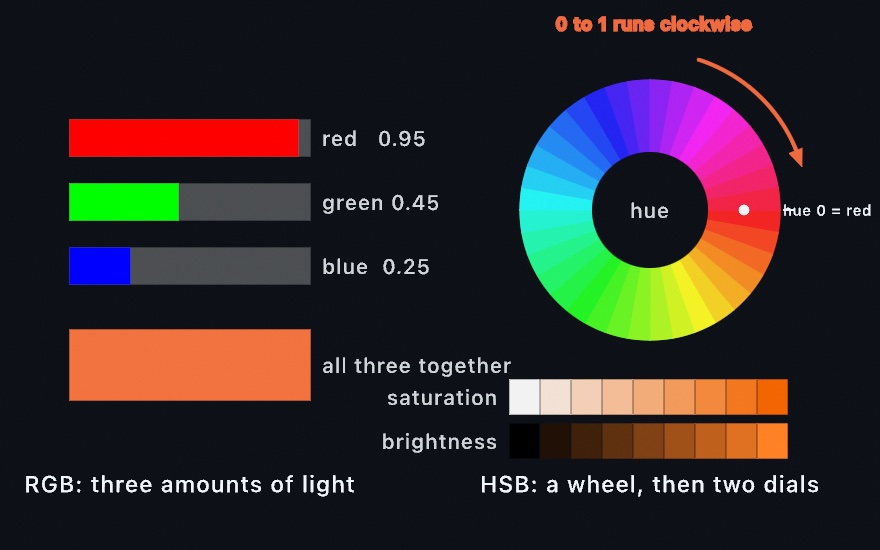
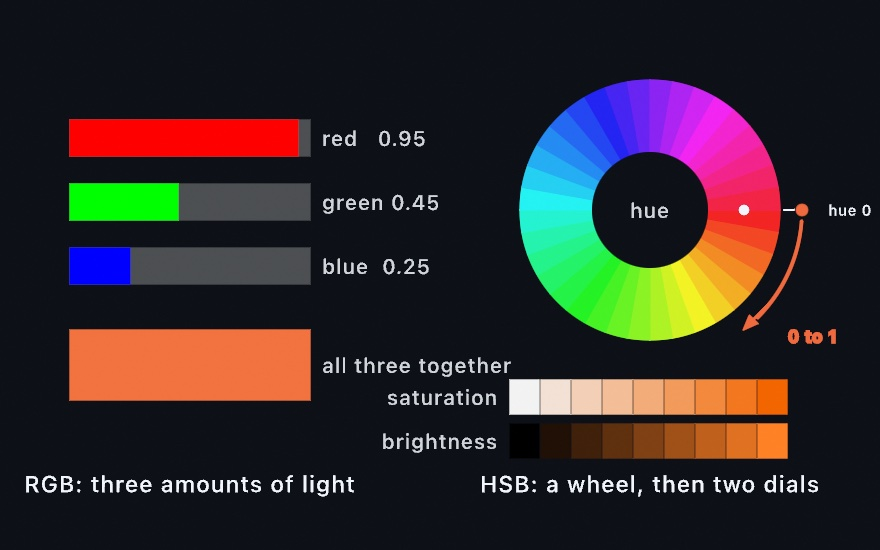
Notes 14 to 16 on chapter 3, plus 18 and 19 which landed in the same files, and a heading I had split in two.
"All free to read inside `draw()`" said nothing: free of what? Three properties come with the clock and you read them the way you read `time`. "Not a constant of the universe" is an idiom where the plain sentence is shorter: you cannot count on the frame rate.

**What a heavy frame does now has its own section, measured rather than described.** A sketch drawing more and more circles, reading its own clock as it goes: at 100,000 circles the rate is 51 and `deltaTime` 0.021, at 160,000 it is 41 and 0.047, and `time` counts real seconds throughout. Reading across that table is the point, because it says which of the three to trust. `frameRate` falls because that is what it measures, `deltaTime` grows because it is the real gap, and `time` is a clock rather than a frame counter. Which is the whole reason for the two habits above it: motion off `time`, or stepped by `deltaTime`, keeps its speed as the rate falls and only gets choppier, while a bare `x += 3` gets both. Two facts finish it: the window drops a refresh rather than queueing work it cannot finish, since a stalled window stops answering the mouse; and an export runs on a fixed clock, so a sketch too heavy to play smoothly still exports at full speed.
[…]

diff --git a/Guide/Figures/02-Color/HueWheels.swift b/Guide/Figures/02-Color/HueWheels.swift
@@ -74,20 +74,22 @@ final class HueWheels: Sketch {
             drawCircle(center: center + Vector2(94, 0), radius: 5)
             textSize(15)
             textAlign(.right, .middle)
-            drawText("hue 0 = red", width - 8, center.y)
+            drawText("hue 0", width - 8, center.y)
 
-            // The sweep from 0 to 1, drawn as the quarter it opens with.
+            // The sweep, starting where 0 is rather than somewhere along the
+            // way, so the reader can see which end the numbers count from.
             noFill()
             stroke(theme.accent)
             strokeWeight(2.5)
-            drawArc(center.x, center.y, 158, 158, start: -.tau * 0.20, stop: -.tau * 0.055)
+            drawArc(center.x, center.y, 152, 152, start: .tau * 0.012, stop: .tau * 0.125)
             fill(theme.accent)
-            let head = center + Vector2(angle: -.tau * 0.045, length: 158)
-            drawArrow(from: center + Vector2(angle: -.tau * 0.075, length: 158),
-                      to: head, headLength: 16, headWidth: 13)
-            textSize(18)
-            textAlign(.center, .bottom)
-            drawText("0 to 1 runs clockwise", center.x + 4, center.y - 176)
+            drawCircle(center: center + Vector2(152, 0), radius: 4.5)
+            drawArrow(from: center + Vector2(angle: .tau * 0.10, length: 152),
+                      to: center + Vector2(angle: .tau * 0.145, length: 152),
+                      headLength: 15, headWidth: 12)
+            textSize(17)
+            textAlign(.left, .middle)
+            drawText("0 to 1", center.x + 138, center.y + 126)
         }
 
         for i in 0..<9 {

diff --git a/Guide/03-MotionAndTime.md b/Guide/03-MotionAndTime.md
@@ -10,13 +10,13 @@
 
 ## The clock
 
-Every sketch carries a clock, and you've already used it: `time` is the seconds since the sketch started. It has three siblings, all free to read inside `draw()`:
+Every sketch carries a clock, and you've already used it: `time` is the seconds since the sketch started. Three more properties come with it, and you read them inside `draw()` the same way:
 
 - `frameCount` is how many frames have been drawn so far, and it reads 1 on the first.
 - `deltaTime` is the seconds since the previous frame, around 0.0167 at 60 fps.
 - `frameRate` is the current frames-per-second estimate.
 
-`deltaTime` matters early, because your sketch's frame rate is not a constant of the universe. `draw()` runs at whatever your display refreshes at, which is 60 times a second on many screens and 120 on recent MacBooks. A step like `x += 3` happens once per *frame*. That means the same sketch covers twice the distance on the faster display:
+`deltaTime` matters early, because you cannot count on the frame rate. `draw()` runs at whatever your display refreshes at, which is 60 times a second on many screens and 120 on recent MacBooks. A step like `x += 3` happens once per *frame*. That means the same sketch covers twice the distance on the faster display:
 
 <picture>
   <source media="(prefers-color-scheme: dark)" srcset="Images/03-MotionAndTime/DeltaTime-dark.jpg">
@@ -29,6 +29,24 @@ There are two reliable ways to move, and this guide uses both:
 - **Scale steps by `deltaTime`.** Some values have to accumulate, like a particle that remembers where it was, which is most of Part II. Write the speed per second and multiply, as in `x += 120 * deltaTime`. Now a fast display takes more, smaller steps and lands in the same place.
 
 What you want to avoid is the third way, a bare per-frame step, which silently bakes your display's refresh rate into the artwork.
+
+## When a frame takes too long
+
+The refresh rate is the ceiling, not a promise. Give `draw()` more work than fits in a frame and it simply takes longer, so fewer frames land each second. Nothing warns you and nothing is skipped inside your `draw()`: the frame you asked for is drawn in full, just later.
+
+Here is a sketch drawing more and more circles, reading its own clock as it goes:
+
+| circles per frame | `frameRate` | `deltaTime` |
+| --- | --- | --- |
+| none | 60 | 0.017 |
+| 100,000 | 51 | 0.021 |
+| 160,000 | 41 | 0.047 |
+
+Read across and you can see which of the three properties to trust. `frameRate` falls, because that is what it measures. `deltaTime` grows to match, because it is the real gap between this frame and the last. And `time` keeps counting real seconds throughout, because it is a clock rather than a frame counter.
+
+That is the whole reason for the two habits above. Motion derived from `time`, or stepped by `deltaTime`, keeps its speed as the rate falls. It gets choppier, and it does not get slower. A bare `x += 3` gets both.
+
+Two things are worth knowing beyond that. If the machine falls far enough behind, the window drops a refresh rather than queuing work it cannot finish, so `draw()` is not called at all that time; skipping a frame is better than a window that stops answering the mouse. And an export does not have this problem in the first place: it runs on a fixed clock, giving every frame exactly `1 / fps` however long the drawing takes, so a sketch too heavy to play smoothly still exports at full speed. The [profiler](../Docs/Tools/Profiling.md) is what tells you where the time went, and [Chapter 32](32-Installations.md) uses it in anger.
 
 ## The circle behind sin
 

diff --git a/Guide/15-ShapesAsMaterial.md b/Guide/15-ShapesAsMaterial.md
@@ -620,9 +620,7 @@ What makes this more than a line drawing is that the skeleton remembers thicknes
 
 Skeletons are setup work rather than per-frame work, so extract once and hold the result. Glyph shapes from [Chapter 8](08-Words.md)'s `textToShapes` skeletonize as they are, counters and all. That is what the `Shapes/MedialAxis` example does, to spell a word in bones.
 
-###
-
-The straight skeleton
+### The straight skeleton
 
 There is a second skeleton, built from a different thought experiment. Shrink the boundary inward at a steady pace, every edge sliding parallel to itself, and watch the corners. Each one travels in a straight line, edges shorten and vanish, and narrow places pinch shut. The paths the corners trace are the **straight skeleton**. Where the medial axis curves around a reflex corner, this one is made entirely of straight segments. Where the medial axis is approximated from a boundary sampling, this one is exact.
 

diff --git a/Guide/02-Color.md b/Guide/02-Color.md
@@ -254,7 +254,7 @@ Each of them takes a `Ramp` or a plain list of colors. Alpha rides along, so a r
 
 ## Will everybody see it?
 
-Pick two colors that read as clearly different to you, and there is a fair chance somebody cannot tell them apart. About one person in twenty sees color differently from the palette most work is designed against. It is carried on the X chromosome, so among men it is nearer one in twelve. That is not a rare edge case. In a room of twenty people it is one of them.
+Pick two colors that read as clearly different to you, and there is a fair chance somebody cannot tell them apart. About one person in twenty sees color differently from the palette most work is designed against. That is not a rare edge case. In a room of twenty people it is one of them.
 
 You can look at your own colors through that difference:
 
